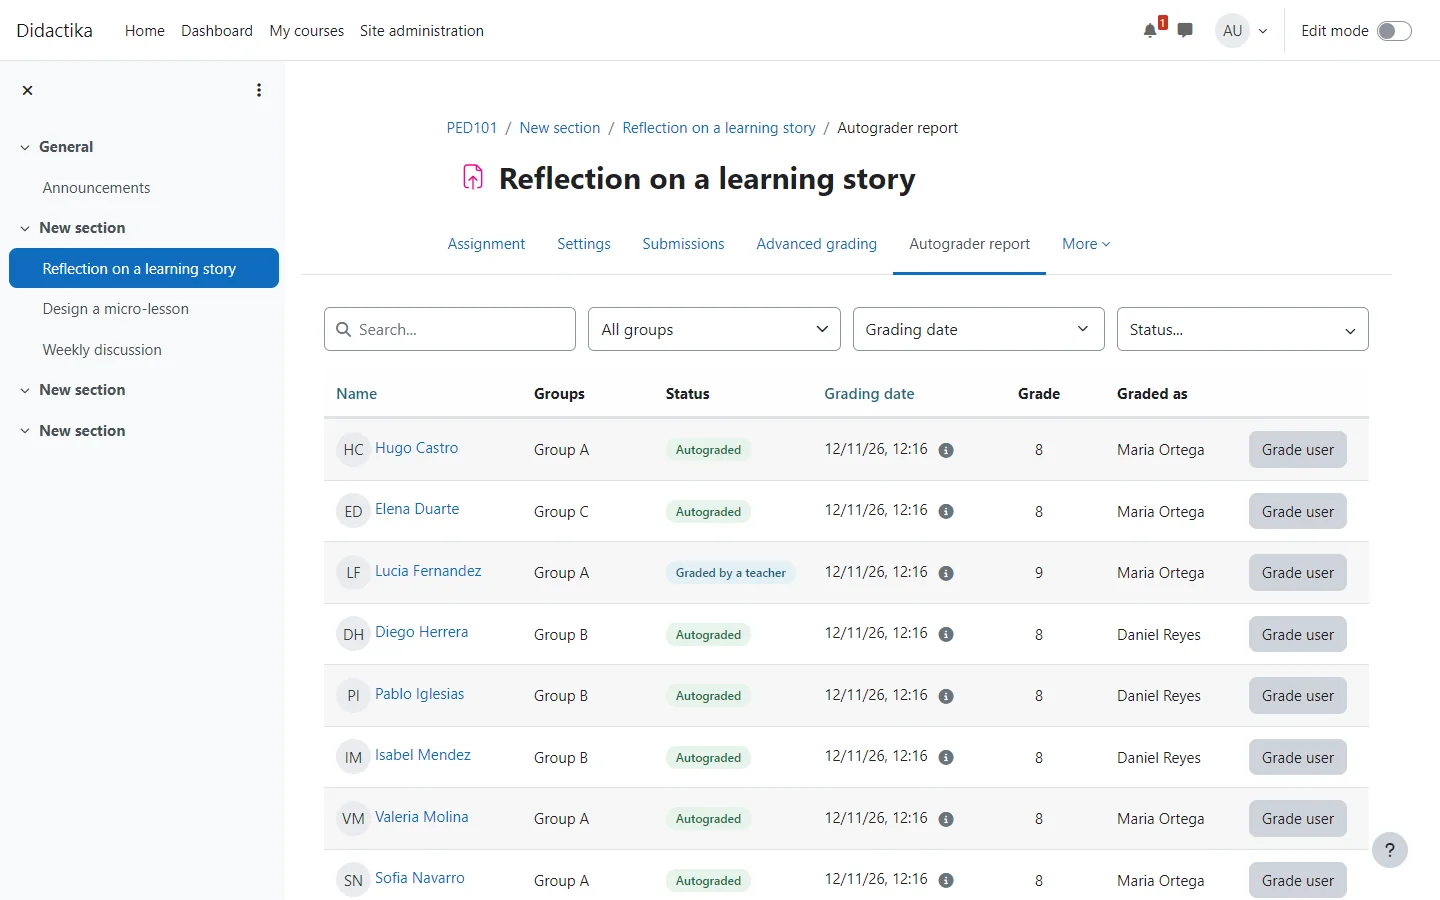
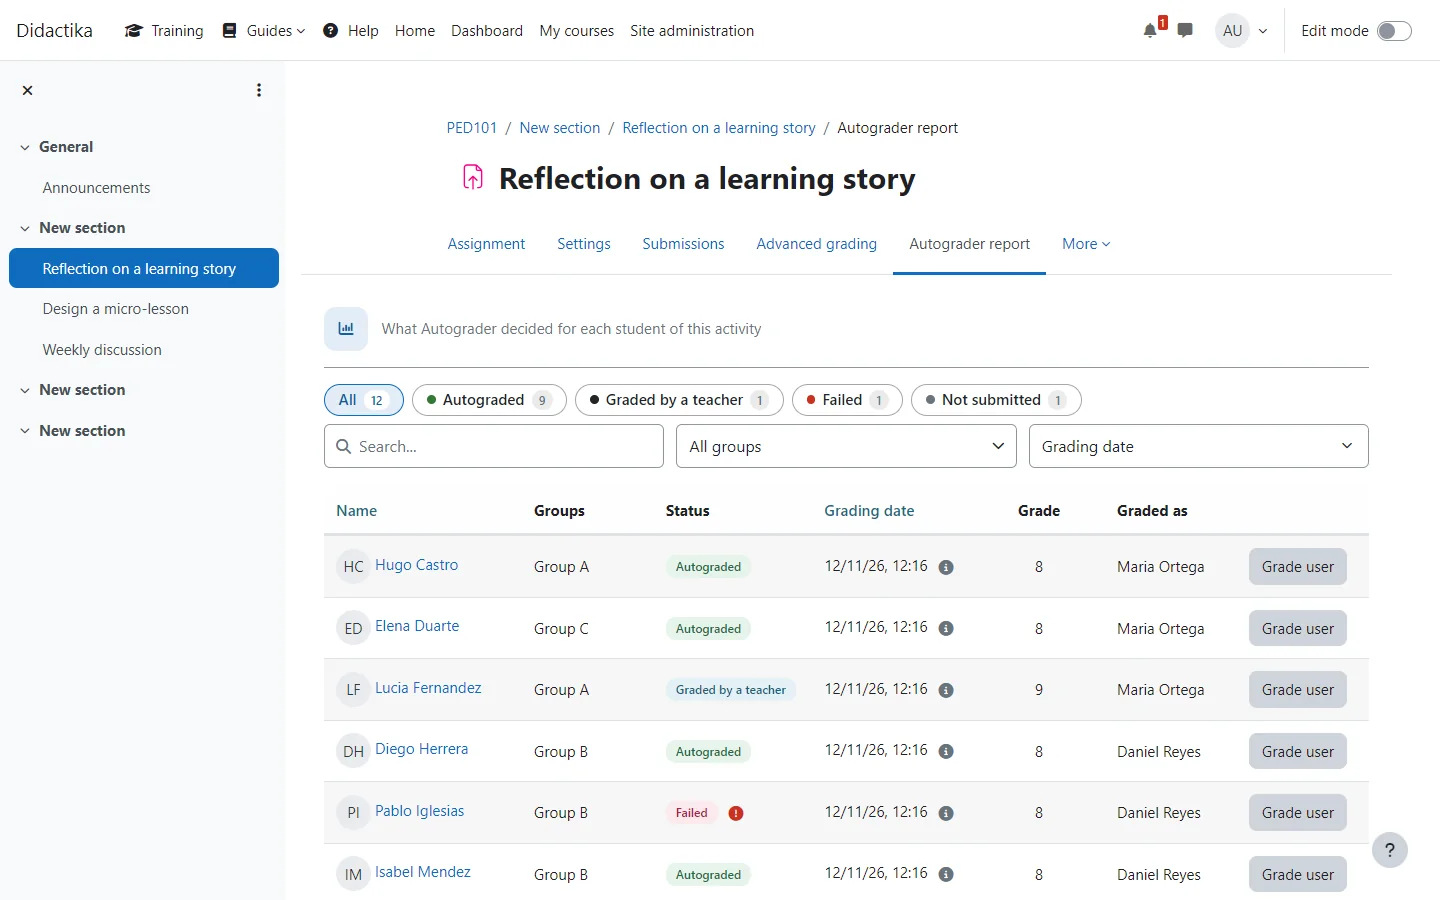
docs: describe the status chips with their counts and the new screenshots

diff --git a/docs/es/technical/design/use-cases/viewReport/README.md b/docs/es/technical/design/use-cases/viewReport/README.md
@@ -19,9 +19,10 @@ Análisis: [README](../../../analysis/use-cases/viewReport/README.md)
 
 | Elemento de diseño | Tipo | Código |
 | --- | --- | --- |
-| `get_report::execute` | servicio | `classes/external/get_report.php:96` |
+| `get_report::execute` | servicio | `classes/external/get_report.php:97` |
 | `scope::require_capability` | servicio | `classes/local/query/scope.php:160` |
-| `report_query::rows` | servicio | `classes/local/query/report_query.php:79` |
+| `report_query::rows` | servicio | `classes/local/query/report_query.php:106` |
+| `report_query::status_counts` | servicio | `classes/local/query/report_query.php:77` |
 | `group_access::for_scope` | servicio | `classes/local/groups/group_access.php:100` |
 | `status::from_decision` | servicio | `classes/local/format/status.php:64` |
 
@@ -33,7 +34,7 @@ Análisis: [README](../../../analysis/use-cases/viewReport/README.md)
 
 | Operación | Entrada | Salida | Errores |
 | --- | --- | --- | --- |
-| `report_autograder_get_report(cmid, courseid, page, limit, filters, sortcolumn, sortdir, withtotal)` | el nivel, los filtros, la página y el orden | una página de filas formateadas y el total | sin capacidad, filtro no válido |
+| `report_autograder_get_report(cmid, courseid, page, limit, filters, sortcolumn, sortdir, withtotal)` | el nivel, los filtros, la página y el orden | una página de filas formateadas, el total y los estudiantes de cada estado | sin capacidad, filtro no válido |
 
 ## Datos que toca
 

diff --git a/docs/en/technical/design/use-cases/viewReport/README.md b/docs/en/technical/design/use-cases/viewReport/README.md
@@ -19,9 +19,10 @@ Analysis: [README](../../../analysis/use-cases/viewReport/README.md)
 
 | Design element | Kind | Code target |
 | --- | --- | --- |
-| `get_report::execute` | service | `classes/external/get_report.php:96` |
+| `get_report::execute` | service | `classes/external/get_report.php:97` |
 | `scope::require_capability` | service | `classes/local/query/scope.php:160` |
-| `report_query::rows` | service | `classes/local/query/report_query.php:79` |
+| `report_query::rows` | service | `classes/local/query/report_query.php:106` |
+| `report_query::status_counts` | service | `classes/local/query/report_query.php:77` |
 | `group_access::for_scope` | service | `classes/local/groups/group_access.php:100` |
 | `status::from_decision` | service | `classes/local/format/status.php:64` |
 
@@ -33,7 +34,7 @@ Analysis: [README](../../../analysis/use-cases/viewReport/README.md)
 
 | Operation | Input | Output | Errors |
 | --- | --- | --- | --- |
-| `report_autograder_get_report(cmid, courseid, page, limit, filters, sortcolumn, sortdir, withtotal)` | the level, the filters, the page and the sort | one page of formatted rows and the total | no capability, invalid filter |
+| `report_autograder_get_report(cmid, courseid, page, limit, filters, sortcolumn, sortdir, withtotal)` | the level, the filters, the page and the sort | one page of formatted rows, the total and the students of each status | no capability, invalid filter |
 
 ## Data touched
 

diff --git a/docs/es/technical/implementation/use-cases/viewReport/README.md b/docs/es/technical/implementation/use-cases/viewReport/README.md
@@ -21,13 +21,14 @@ Diseño: [README](../../../design/use-cases/viewReport/README.md)
 | --- | --- | --- | --- |
 | `get_report` | servicio web | `classes/external/get_report.php` | sí |
 | Página del informe | página | `index.php` | sí |
+| Chips de los estados | módulo AMD | `amd/src/ui/status_chips.js` | sí |
 | Pantalla del informe | módulo AMD | `amd/src/ui/report.js` | sí |
 
 ## Pruebas
 
 | Prueba | Cubre | Ubicación |
 | --- | --- | --- |
-| Una página de filas, filtros y orden | flujo principal | `tests/external/get_report_test.php` |
+| Una página de filas, filtros, orden y recuentos de los estados | flujo principal | `tests/external/get_report_test.php` |
 | La consulta de las filas | flujo principal, RN-001 | `tests/local/report_query_test.php` |
 | Grupos del lector | RN-004 | `tests/local/group_access_test.php` |
 | Calificación y calificador provisionales | RN-005 | `tests/local/provisional_grade_test.php` |

diff --git a/docs/en/technical/implementation/use-cases/viewReport/README.md b/docs/en/technical/implementation/use-cases/viewReport/README.md
@@ -21,13 +21,14 @@ Design: [README](../../../design/use-cases/viewReport/README.md)
 | --- | --- | --- | --- |
 | `get_report` | web service | `classes/external/get_report.php` | yes |
 | Page of the report | page | `index.php` | yes |
+| Status chips | AMD module | `amd/src/ui/status_chips.js` | yes |
 | Report screen | AMD module | `amd/src/ui/report.js` | yes |
 
 ## Tests
 
 | Test | Covers | Location |
 | --- | --- | --- |
-| One page of rows, filters and sort | main flow | `tests/external/get_report_test.php` |
+| One page of rows, filters, sort and the counts of the statuses | main flow | `tests/external/get_report_test.php` |
 | The query of the rows | main flow, RN-001 | `tests/local/report_query_test.php` |
 | Groups of the reader | RN-004 | `tests/local/group_access_test.php` |
 | Provisional grade and grader | RN-005 | `tests/local/provisional_grade_test.php` |

diff --git a/docs/es/technical/requirements/use-cases/viewReport/README.md b/docs/es/technical/requirements/use-cases/viewReport/README.md
@@ -51,7 +51,7 @@ Un docente necesita ver, para cada estudiante, lo que Autograder decidió: el es
 | 1 | Abre **Informe de Autograder** en el menú de la actividad o del curso. | Comprueba la capacidad del nivel. |
 | 2 |  | Lee la primera página de filas, limitada a los grupos que el docente puede ver. |
 | 3 | Busca, filtra u ordena. | Vuelve a leer la página con los nuevos filtros. |
-| 4 |  | Muestra cada fila con su estado, fecha, calificación y calificador; una fila pendiente muestra la calificación y el docente que tendría ahora. |
+| 4 |  | Muestra cada fila con su estado, fecha, calificación y calificador; una fila pendiente muestra la calificación y el docente que tendría ahora; sobre las filas, un chip de cada estado indica cuántos estudiantes hay en él, contados dentro de los demás filtros. |
 
 ## Flujos alternativos
 

diff --git a/docs/en/technical/requirements/use-cases/viewReport/README.md b/docs/en/technical/requirements/use-cases/viewReport/README.md
@@ -51,7 +51,7 @@ A teacher needs to see, for each student, what Autograder decided: the status, t
 | 1 | Opens **Autograder report** in the menu of the activity or of the course. | Checks the capability of the level. |
 | 2 |  | Reads the first page of rows, limited to the groups the teacher can see. |
 | 3 | Searches, filters or sorts. | Reads the page again with the new filters. |
-| 4 |  | Shows each row with its status, date, grade and grader; a pending row shows the grade and the teacher it would have now. |
+| 4 |  | Shows each row with its status, date, grade and grader; a pending row shows the grade and the teacher it would have now; above the rows, a chip of each status shows how many students are in it, counted inside the other filters. |
 
 ## Alternative flows
 

diff --git a/docs/es/reference/webservices.md b/docs/es/reference/webservices.md
@@ -13,6 +13,8 @@ Las páginas del informe leen sus datos mediante dos funciones de servicio web. 
 
 La página **Calificadores por curso** la dibuja el servidor y no necesita ningún servicio web.
 
+La función devuelve además, una vez por cada conjunto de filtros y junto con el total, el número de estudiantes de cada estado: la clave, el nombre y el recuento de cada estado, contado dentro de todos los demás filtros salvo el propio estado. Un cambio de página no devuelve recuentos.
+
 ## Filtros
 
 Los filtros de `report_autograder_get_report` son pares de un nombre y un valor. Acotan la tabla a un texto de búsqueda, un periodo de fechas de calificación, uno o varios estados, un curso, una actividad o un grupo.

diff --git a/docs/es/technical/implementation/code-map.md b/docs/es/technical/implementation/code-map.md
@@ -11,7 +11,8 @@ sourceOfTruth: code
 | --- | --- | --- | --- |
 | Scope | clase | `classes/local/query/scope.php:77` | sí |
 | Filters | clase | `classes/local/query/filters.php` | sí |
-| Filas del informe | método | `classes/local/query/report_query.php:79` | sí |
+| Filas del informe | método | `classes/local/query/report_query.php:106` | sí |
+| Estudiantes de cada estado | método | `classes/local/query/report_query.php:77` | sí |
 | Status | clase | `classes/local/format/status.php:64` | sí |
 | Calificación provisional | método | `classes/local/format/provisional_grade.php:46` | sí |
 | Acceso por grupos | método | `classes/local/groups/group_access.php:100` | sí |

diff --git a/docs/en/technical/implementation/code-map.md b/docs/en/technical/implementation/code-map.md
@@ -11,7 +11,8 @@ sourceOfTruth: code
 | --- | --- | --- | --- |
 | Scope | class | `classes/local/query/scope.php:77` | yes |
 | Filters | class | `classes/local/query/filters.php` | yes |
-| Rows of the report | method | `classes/local/query/report_query.php:79` | yes |
+| Rows of the report | method | `classes/local/query/report_query.php:106` | yes |
+| Students of each status | method | `classes/local/query/report_query.php:77` | yes |
 | Status | class | `classes/local/format/status.php:64` | yes |
 | Provisional grade | method | `classes/local/format/provisional_grade.php:46` | yes |
 | Group access | method | `classes/local/groups/group_access.php:100` | yes |

diff --git a/docs/en/reference/webservices.md b/docs/en/reference/webservices.md
@@ -13,6 +13,8 @@ The pages of the report read their data through two web-service functions. They 
 
 The page **Graders by course** is drawn by the server and needs no web service.
 
+The function also returns, once for each set of filters and with the total, the number of students in each status: the key, the name and the count of each status, counted inside every other filter but the status itself. A page turn returns no counts.
+
 ## Filters
 
 The filters of `report_autograder_get_report` are pairs of a name and a value. They narrow the table to a search text, a period of grading dates, one or more statuses, a course, an activity or a group.
